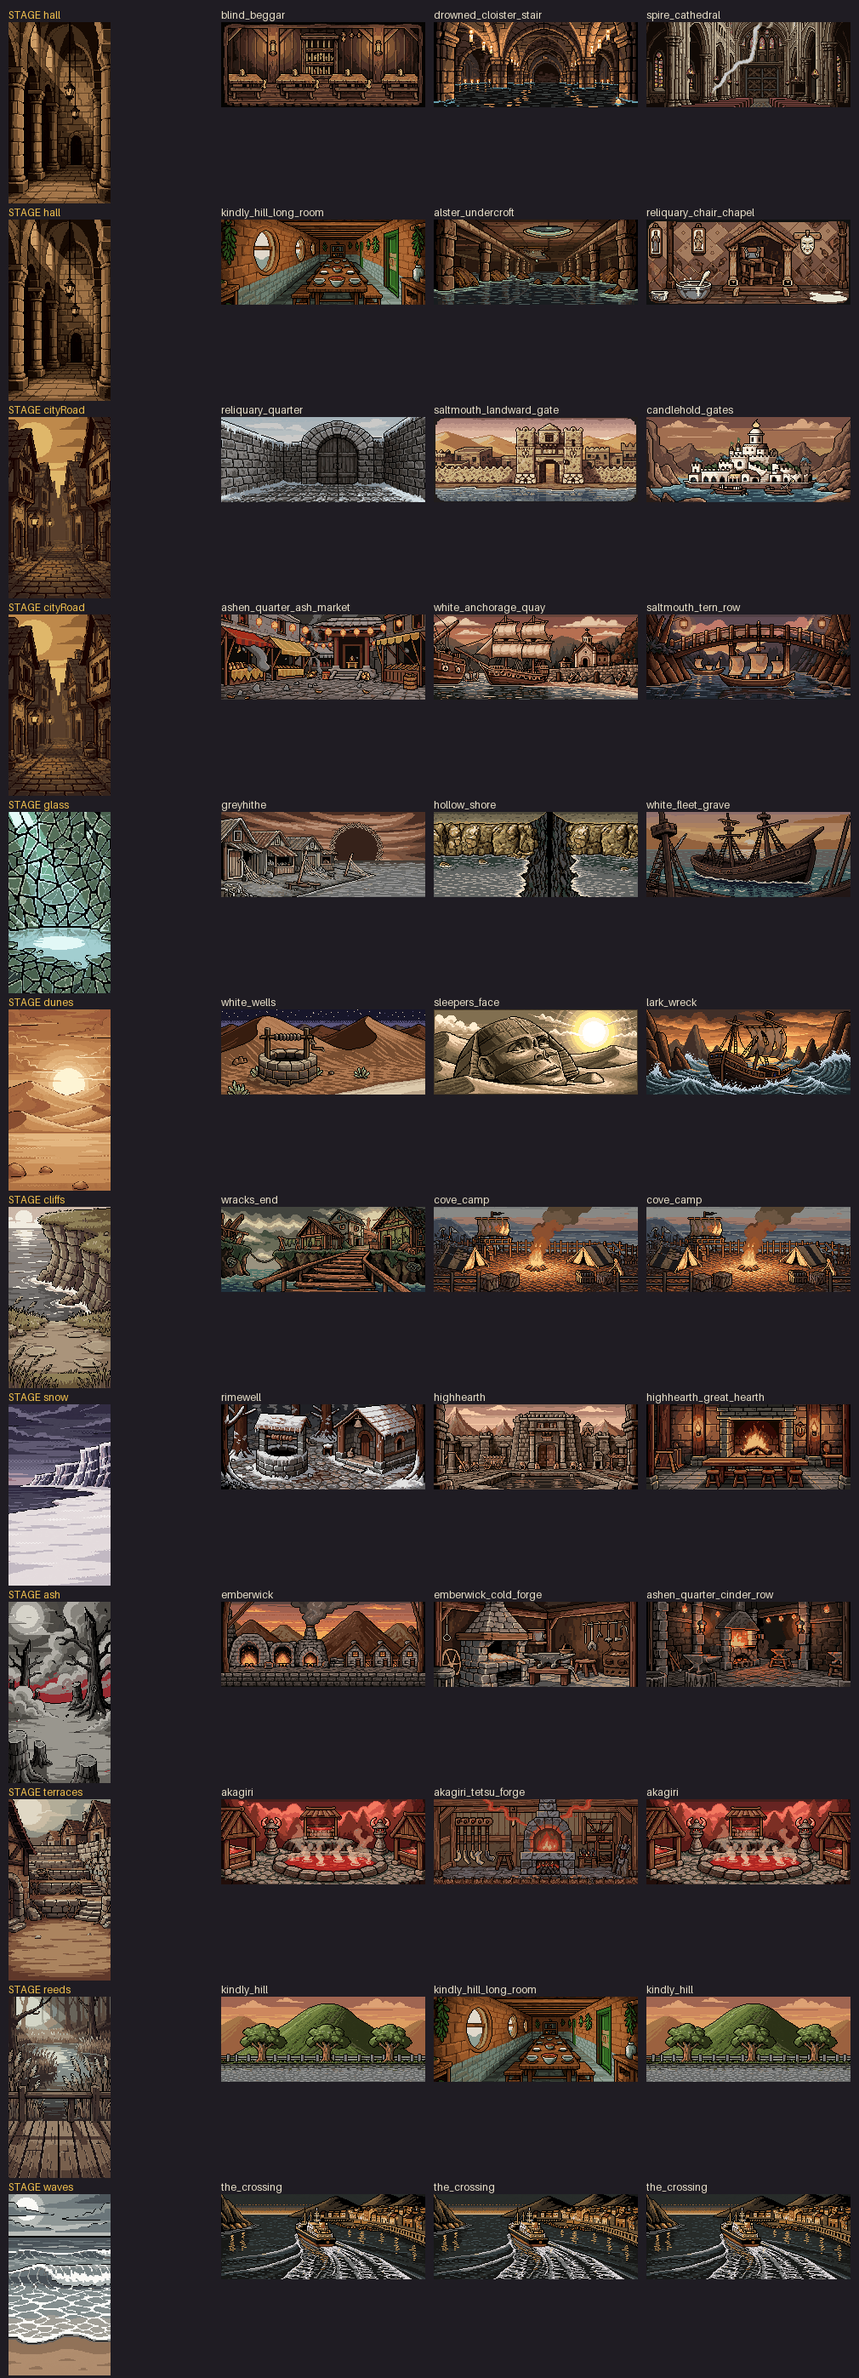
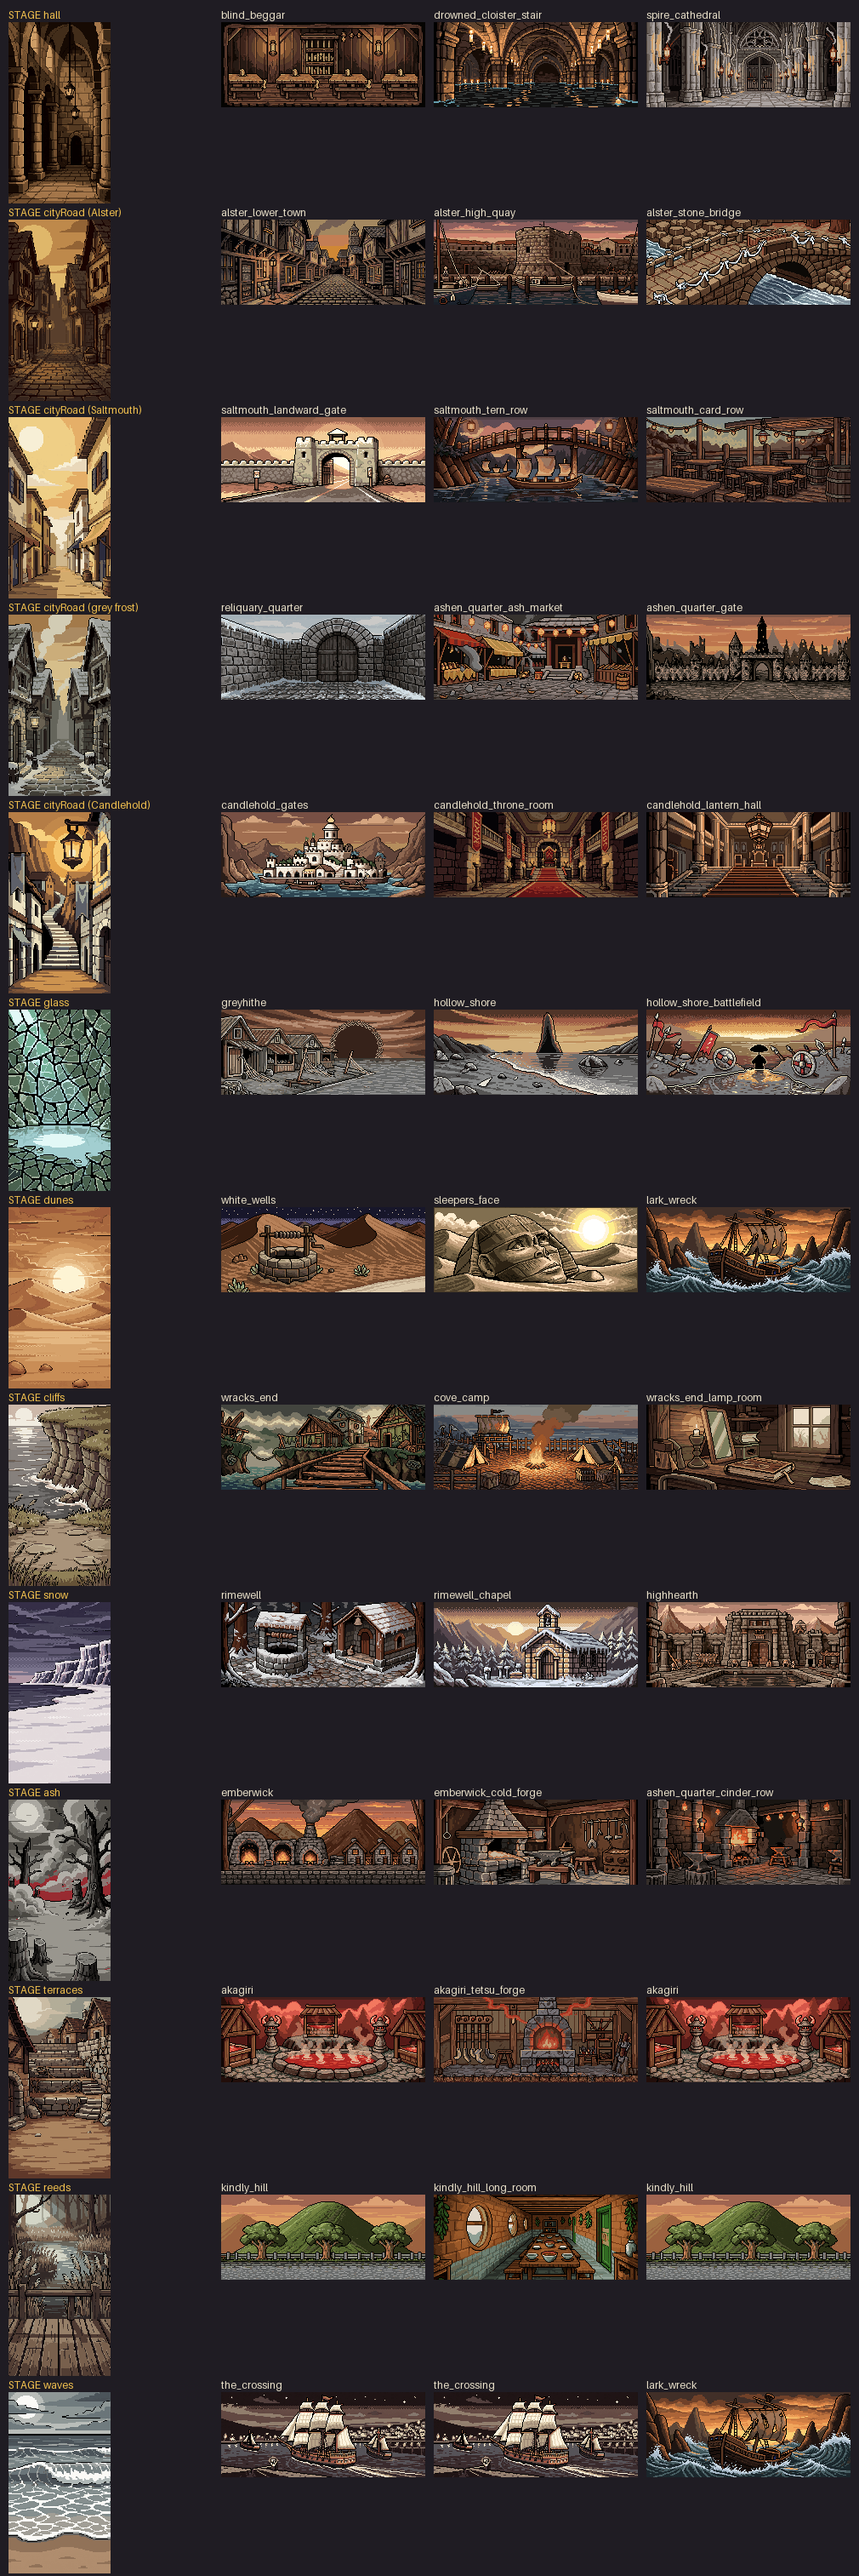
Art: 11 redos generated from their pairs (8 bands, 3 cityRoad variants), updated consistency sheet (art/docs only)
Claude-Session: https://claude.ai/code/session_019ETFw1Uj2cByEfEuTF2CxM

diff --git a/art/pixellab-backgrounds/redos_gen.py b/art/pixellab-backgrounds/redos_gen.py
@@ -1,0 +1,39 @@
+"""Redos (11 generations): 8 story bands redone and 3 cityRoad regional variants, each generated from its pair (the paired stage's materials, palette and hour in the words).
+python3 art/pixellab-backgrounds/redos_gen.py <state.json>"""
+import json, subprocess, time, sys
+sys.path.insert(0,'art/pixellab-backgrounds')
+import batchA_gen as A
+B=A.B+", full bleed, no frame, no vignette, no rounded corners, no signs, no writing"
+S=A.S
+BANDS={
+ 'hollow_shore':"pixel art, a bleak grey sand shore with a wet mirror-like beach, grey water, across the water a tall narrow dark rift standing open in the sky like a door, a few glassy shards on the sand, ",
+ 'saltmouth_landward_gate':"pixel art, a sun-bleached whitewashed salt-port gate with square towers and flat roofs, dunes behind, a bright haze, an empty road in front, ",
+ 'hollow_shore_battlefield':"pixel art, a grey sand shore after a battle, broken spears and shields stuck in the sand, torn banners, wet reflections, a dark tear standing over the water, ",
+ 'saltmouth_lantern_alleys':"pixel art, narrow alleys of a night bazaar, strings of coloured paper lanterns, shuttered plain stalls, whitewashed walls, ",
+ 'spire_cathedral':"pixel art, the nave of a grey gothic cathedral inside a spire, thin incense smoke, rows of iron lamps, plain stone floor, huge sealed doors far back, ",
+ 'the_crossing':"pixel art, a sailing ship with white square sails and no funnel leaving a harbour at night, a wake on dark water, the lights of a whitewashed town fading behind, ",
+ 'white_anchorage_stern':"pixel art, only the stern of a wrecked flagship rising out of grey glass-like sand, a carved stern gallery with windows and a broken gilded rail, seen close, dusk, ",
+ 'rimewell_chapel':"pixel art, a small stone chapel with a bell tower in a frosted pilgrims' halt, frost on the stones, a bell hung in the open, cold pale light, ",
+}
+CITY={
+ 'fight_cityroad_saltmouth':"pixel art, a sun-bleached whitewashed salt-port street, flat-roofed white and sand-coloured houses with blue shutters, canvas awnings, bright white haze, an empty road in front, "+S,
+ 'fight_cityroad_frost':"pixel art, a cold grey stone street of a frosted holy quarter, steep grey houses, frost on the cobbles, pale smoke, a lantern with white light, an empty road in front, "+S,
+ 'fight_cityroad_candlehold':"pixel art, a stepped white stone street climbing a cliff city, white walls, tide-blue banners, a great lantern burning far above, an empty street in front, "+S,
+}
+if __name__=='__main__':
+    st=sys.argv[1]
+    queue=[(k,7,240,100,BANDS[k]+B) for k in BANDS]+[(k,11,180,320,CITY[k]) for k in CITY]; active=[]; done=[]
+    def save(): json.dump(dict(done=done,active=active),open(st,'w'),indent=1)
+    while queue or active:
+        while queue and len(active)<6:
+            k,s,w,h,desc=queue.pop(0)
+            r=A.call('create_image_pixen',{"description":desc,"width":w,"height":h,"no_background":False,"view":"side","outline":"single color black outline","detail":"medium detail","seed":s})
+            active.append(dict(k=k,s=s,job=A.field(r,'job_id'),raw='' if A.field(r,'job_id') else r[:200])); save()
+        time.sleep(20)
+        for a in list(active):
+            if not a['job']: print('FAILED',a); active.remove(a); continue
+            if A.field(A.call('get_image',{"job_id":a['job']}),'status')=='completed':
+                subprocess.run(A.CLI+['get_image',json.dumps({"job_id":a['job']}),'--save',f"art/pixellab-backgrounds/redos/raw/{a['k']}_s{a['s']}"],capture_output=True,text=True)
+                done.append((a['k'],a['s'])); active.remove(a)
+        save()
+    print('ALL DONE',len(done))

diff --git a/docs/art/pairing-stage-scenes.md b/docs/art/pairing-stage-scenes.md
@@ -26,3 +26,7 @@ The stage plates are one per stage, but a stage is used by many places of differ
 - Where two seeds of a stage exist the existing picks (batch A: saltflats s11, waves s12, ash s12, glass s12, cityroad s11, shipdeck s11, oasis s12, caravanroad s11, pass s12) **do not change**: the mismatch is one plate against several regions, not the seed.
 ## From now on
 Each new band is generated from its paired stage's words (materials, palette, hour), and each new stage variant from its place's band, with the neighbour as a style hint in the prompt (the tool takes an init image but follows it too tightly for a different composition, so the words carry the match).
+
+## Update after the 11 redos (balance 996.5 to 985.5)
+Done, each generated from its pair (the paired stage's materials, palette and hour in the words): the **8 band redos** (hollow_shore as a rift standing across grey water, saltmouth_landward_gate with a whitewashed gate and no frame, hollow_shore_battlefield with spears and shields in the sand, saltmouth_lantern_alleys plain shuttered stalls, spire_cathedral without the crack, the_crossing as a white-sailed ship, white_anchorage_stern as a stern only, rimewell_chapel full bleed) and the **3 cityRoad regional variants** (Saltmouth sun-bleached, grey-frost towns, Candlehold white stone). Files `art/pixellab-backgrounds/redos/staged/`; sheets `docs/art/boards/backgrounds-redos-bands.png` (old | redo), `backgrounds-redos-cityroad.png`, and the consistency sheet is updated (cityRoad now four rows, one per region; the new bands replace the old).
+Remaining on hold until UX-2 and Core confirm a fight can pick a plate by stage plus place: glass warm dusk, ash warm kiln, terraces red haze, waves night, hall wet vault (5 stage variants). Flag: the new `hollow_shore_battlefield` has a small dark standing figure in the middle of the sand (a baked character, no figures was asked): paint it out by hand or retry.

diff --git a/art/pixellab-backgrounds/redos/README.md b/art/pixellab-backgrounds/redos/README.md
@@ -1,0 +1,2 @@
+# Redos (11 generations): 8 story bands and 3 cityRoad variants, each generated from its pair
+`staged/<band>_s7.png` (240x100, 32-colour PNG8) replace the same-named batch A/B/C bands; `staged/fight_cityroad_{saltmouth,frost,candlehold}_s11.png` (180x320, 24 colours) are regional variants of the cityRoad stage (the Alster plate stays `batchA/staged/fight_cityroad_s11.png`). Raw in `raw/`, generator `../redos_gen.py`. Balance 996.5 to 985.5. Not wired. Hollow_shore_battlefield carries a small figure: see `docs/art/pairing-stage-scenes.md`.

diff --git a/docs/art/catalogue/backgrounds-redos.md b/docs/art/catalogue/backgrounds-redos.md
@@ -1,0 +1,2 @@
+## Redos: 8 bands and 3 cityRoad variants (11 generations)
+`art/pixellab-backgrounds/redos/`, `redos_gen.py`, sheets `docs/art/boards/backgrounds-redos-*.png`, consistency sheet updated. Balance 996.5 to 985.5.
